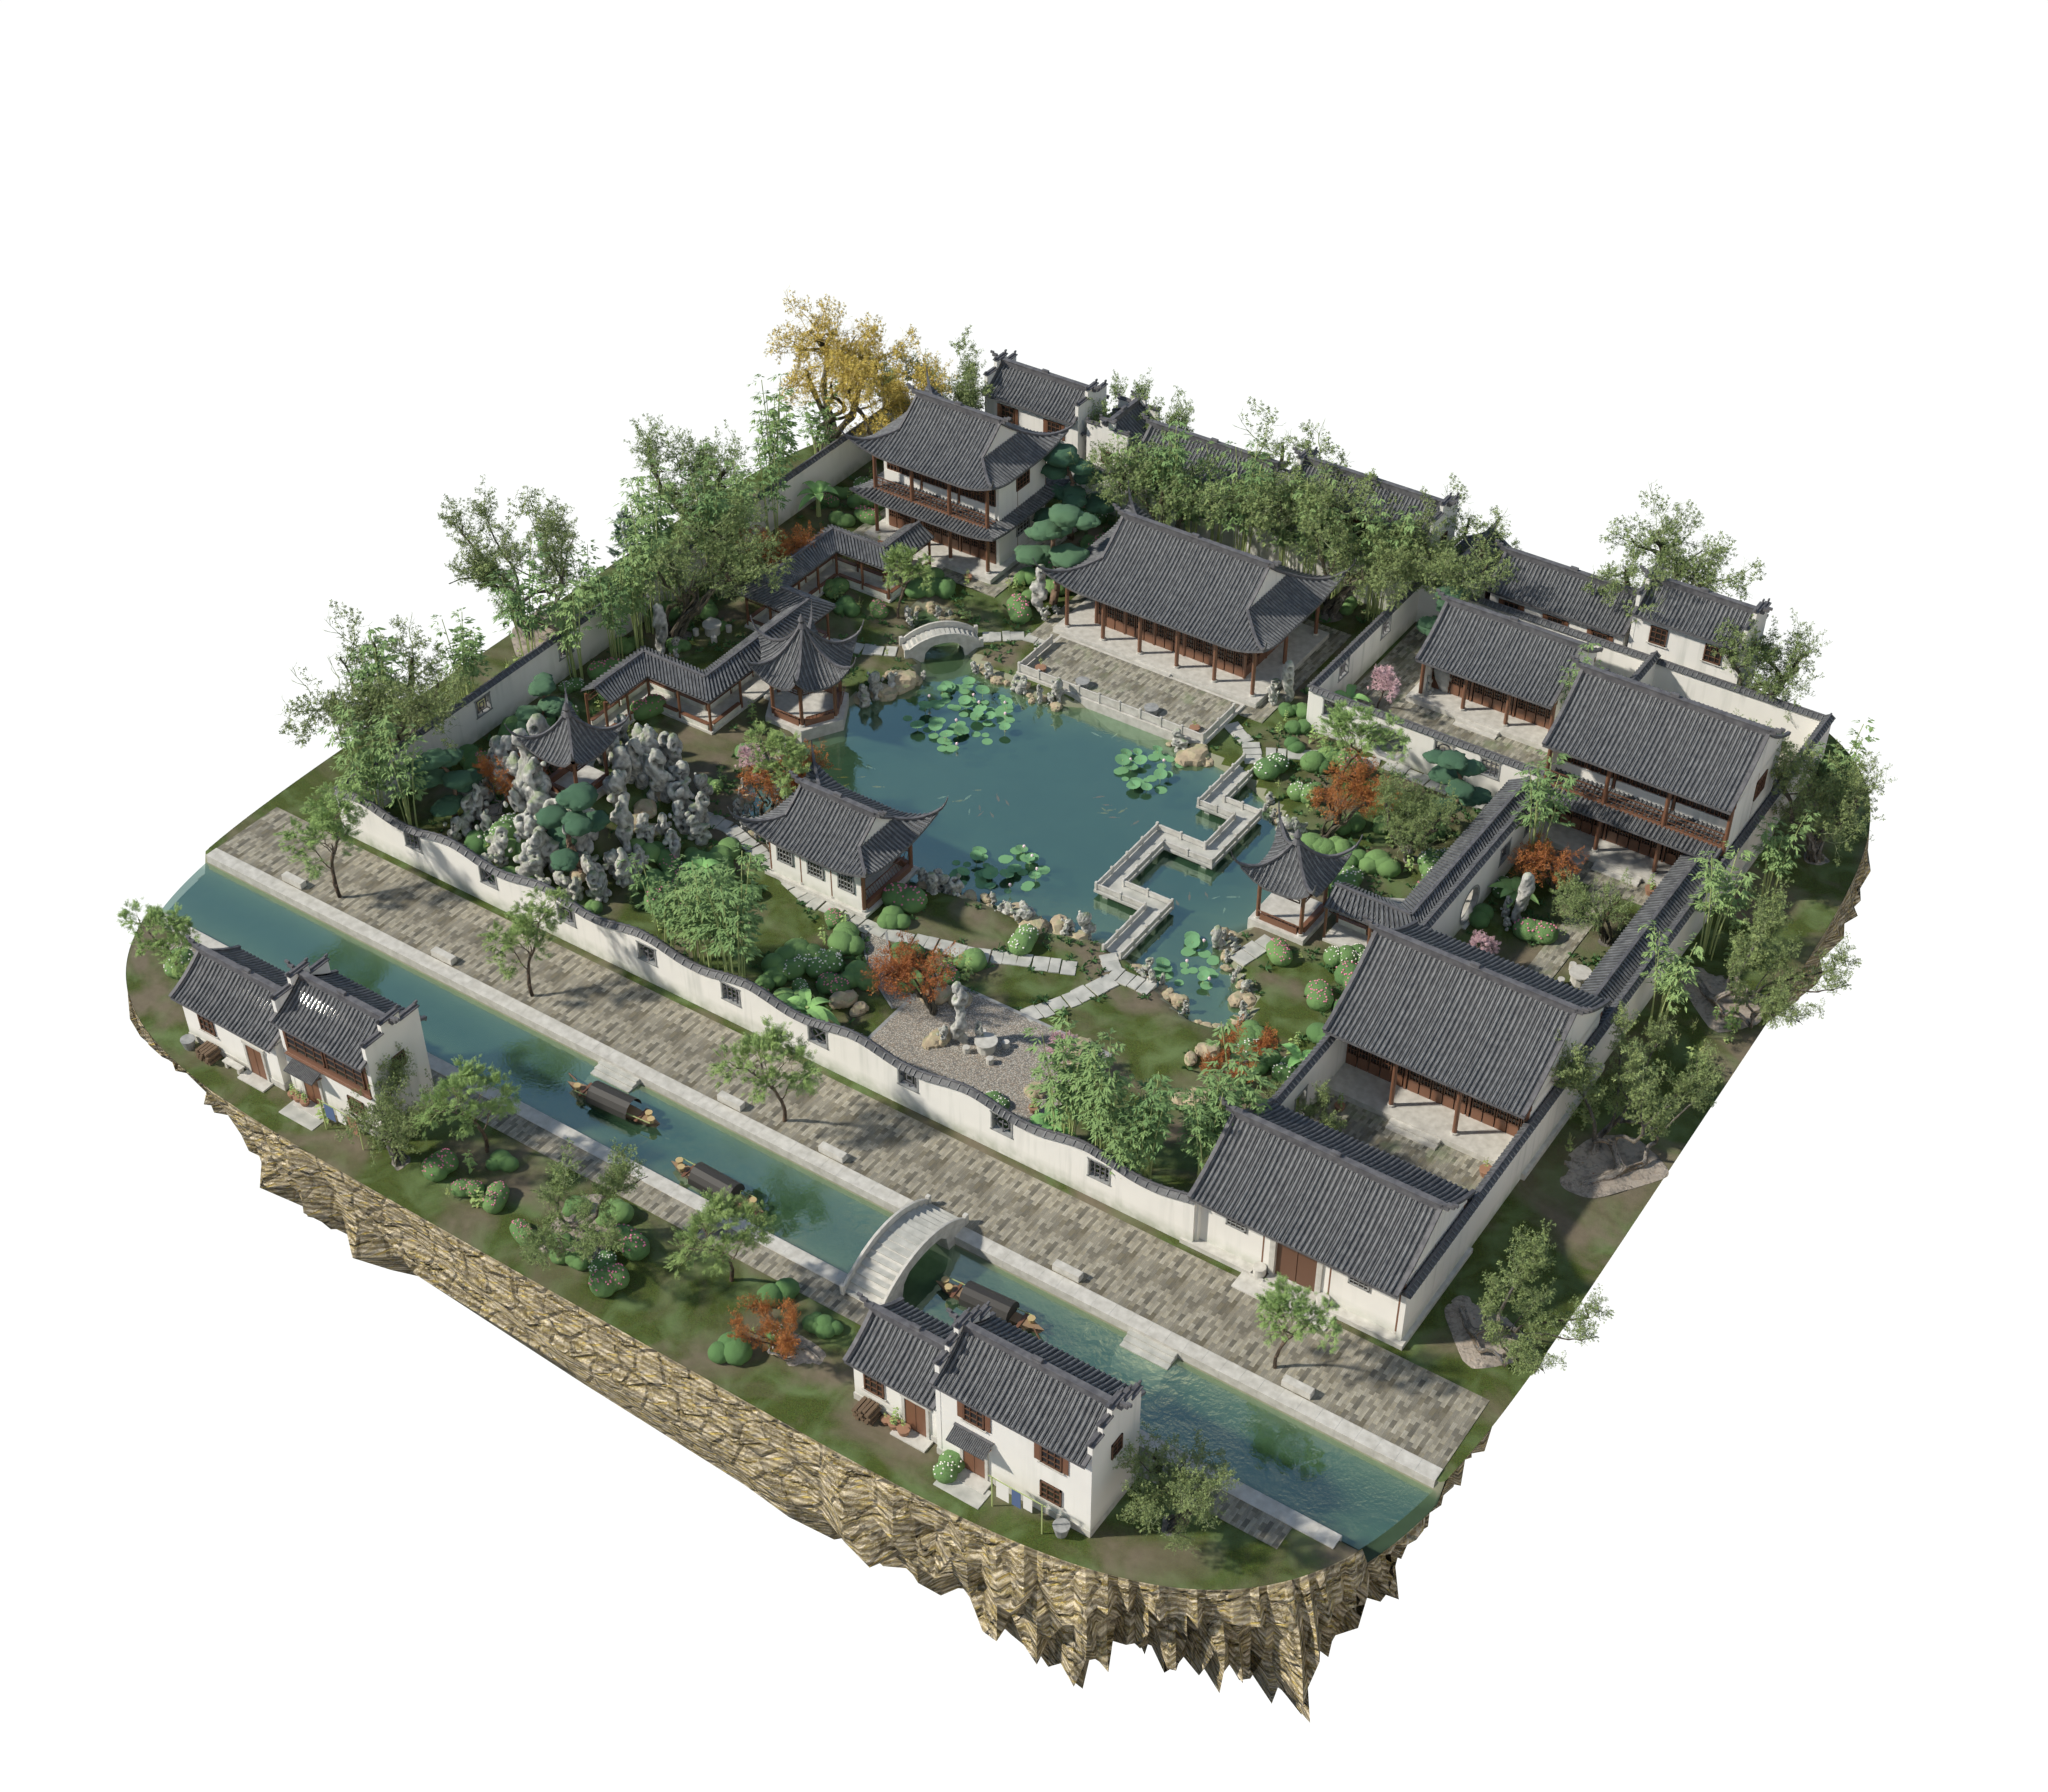
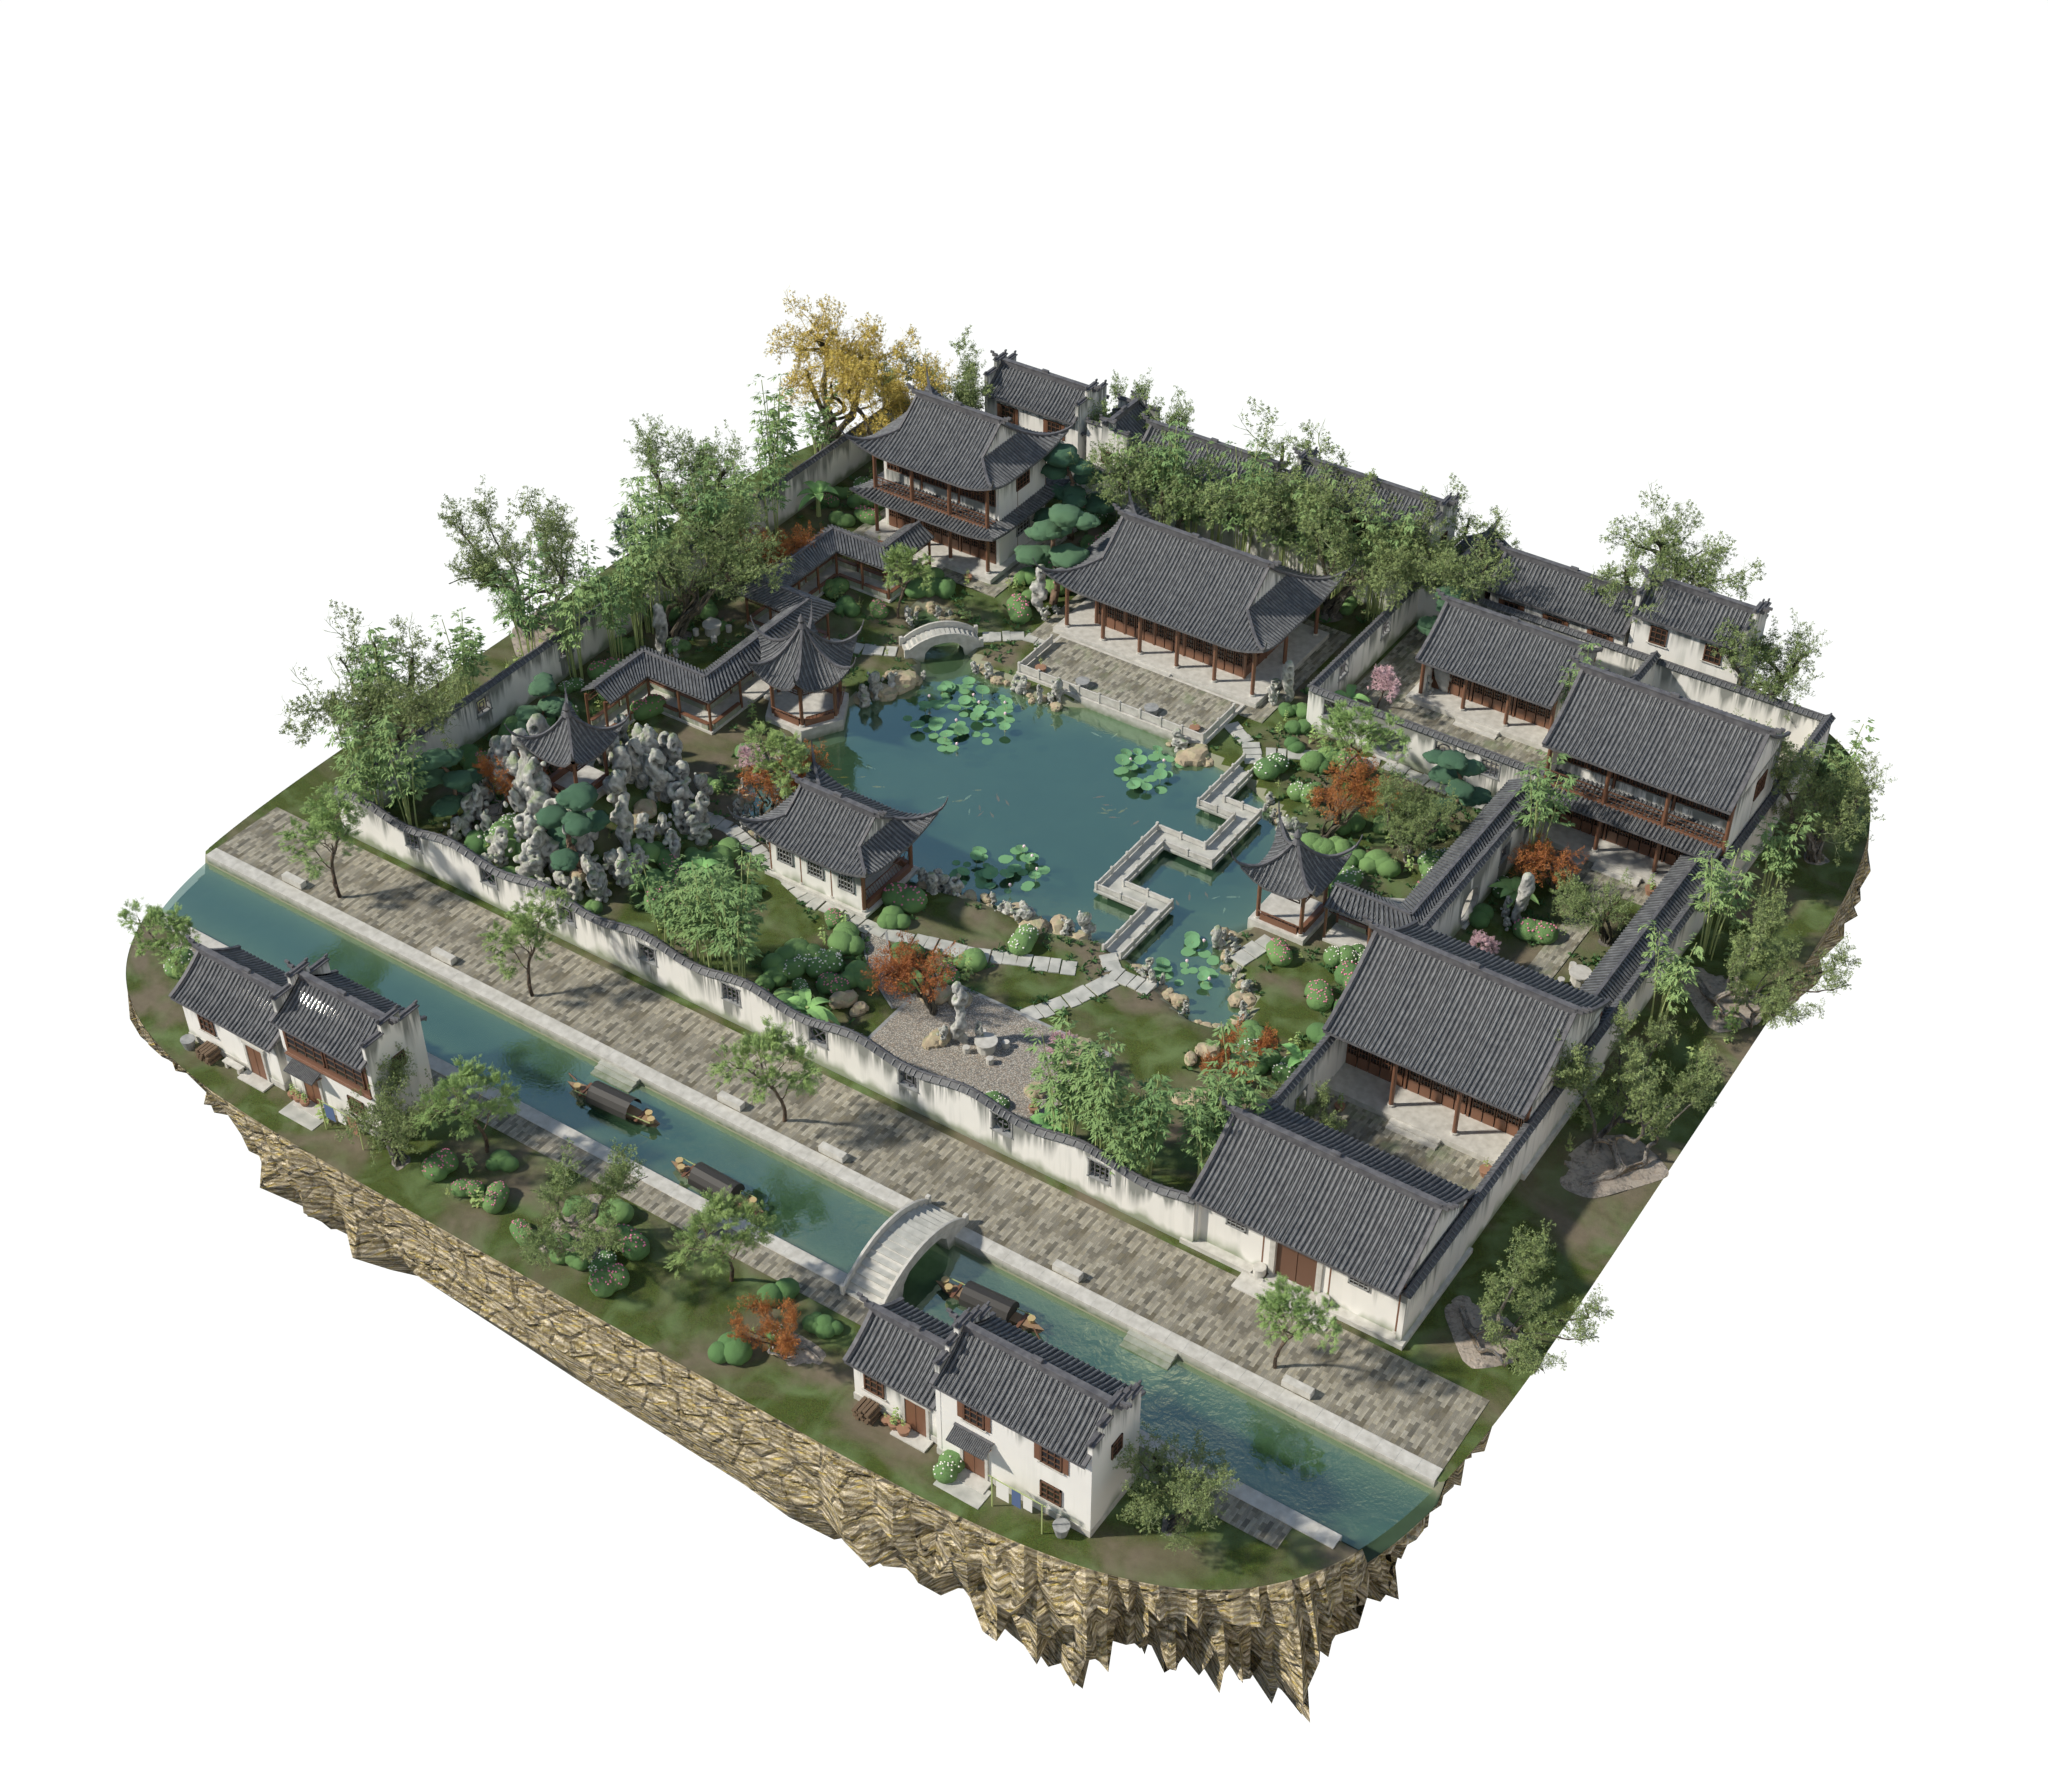
苏州园林第六版：粉墙做旧（雨痕、墙脚返潮），近水石材生青苔
- 网格构建器给每个粉墙顶点写入所在墙段的顶高（属性 topz），材质用 topz − z 得到离墙顶的距离：
  雨痕从瓦帽、屋檐、窗台下往下挂，每一道的长短由只随水平位置变化的噪波决定
- 墙脚一道高低不齐的青灰返潮带，贴地一线溅泥发暗
- 原来材质里就有一层雨痕和返潮，但太淡，在受光的白墙上看不出来；强度改由 --rain / --damp 控制
- 驳岸、河埠头、池岸的石材（金山石、石板）在水线以上一掌高的范围发暗生青苔
- 成图 2048×1792 / 64 采样重渲；黑块扫描新增的 5 处命中逐个与第五版对比，都是背光处的雨痕，不是黑块
- 这一层只在成图里，网页版的墙面仍是纯色

diff --git a/suzhou-garden/build_suzhou_garden.py b/suzhou-garden/build_suzhou_garden.py
@@ -268,17 +268,51 @@ _sep = nt.nodes.new("ShaderNodeSeparateXYZ")
 nt.links.new(texcoord(nt).outputs["Object"], _sep.inputs["Vector"])
 _n0 = noise(nt, 0.7, 3.0)
 _col = mul_color(nt, rgb(nt, (0.86, 0.85, 0.81)), map_range(nt, _n0.outputs["Fac"], 0.93, 1.04))
+def _mth(nt, op, a, b=None, clamp=False):
+    """数学节点：a、b 可以是插口或常数。"""
+    m = nt.nodes.new("ShaderNodeMath"); m.operation = op; m.use_clamp = clamp
+    for i, v in enumerate((a, b)):
+        if v is None:
+            continue
+        if isinstance(v, (int, float)):
+            m.inputs[i].default_value = v
+        else:
+            nt.links.new(v, m.inputs[i])
+    return m.outputs[0]
+
 _st = noise_mapped(nt, (2.4, 2.4, 0.16), detail=3.0)
 _pt = noise(nt, 0.22, 2.0)
 _sf = nt.nodes.new("ShaderNodeMath"); _sf.operation = 'MULTIPLY'
 nt.links.new(clampv(map_range(nt, _st.outputs["Fac"], 0.0, 1.0, 0.50, 0.72)), _sf.inputs[0])
 nt.links.new(clampv(map_range(nt, _pt.outputs["Fac"], 0.0, 0.75, 0.40, 0.62)), _sf.inputs[1])
 _col = mix_rgb(nt, _col, rgb(nt, (0.60, 0.61, 0.57)), _sf.outputs[0], 'MIX')
+# 雨痕：从墙顶（瓦帽、屋檐、窗台下）往下挂。每个墙面顶点带着所在墙段的顶高 topz（MeshB.add 自动写入），
+# 离顶距离 = topz − z；每一道的长短由只随水平位置变化的噪波决定，所以长短不齐
+_tz = nt.nodes.new("ShaderNodeAttribute"); _tz.attribute_name = "topz"
+_dist = _mth(nt, 'SUBTRACT', _tz.outputs["Fac"], _sep.outputs["Z"])
+_valid = _mth(nt, 'GREATER_THAN', _dist, -0.02)
+_ln = noise_mapped(nt, (0.9, 0.9, 0.0), detail=2.0)
+_len = clampv(map_range(nt, _ln.outputs["Fac"], 0.4, 2.6, 0.36, 0.68))
+_fall = clampv(map_range(nt, _dist, 1.0, 0.0, 0.0, 1.0))
+nt.links.new(_len, _fall.node.inputs["From Max"])
+_s1 = clampv(map_range(nt, _st.outputs["Fac"], 0.0, 1.0, 0.40, 0.60))
+_st2 = noise_mapped(nt, (7.0, 7.0, 0.30), detail=2.0)
+_s2 = clampv(map_range(nt, _st2.outputs["Fac"], 0.0, 0.7, 0.48, 0.60))
+_streak = _mth(nt, 'MULTIPLY', _mth(nt, 'MAXIMUM', _s1, _s2), _mth(nt, 'POWER', _fall, 1.3))
+_band = _mth(nt, 'MULTIPLY', clampv(map_range(nt, _dist, 1.0, 0.0, 0.03, 0.26)),
+             clampv(map_range(nt, _pt.outputs["Fac"], 0.25, 0.7, 0.35, 0.65)))       # 瓦帽下一道断续的灰边
+_rain = _mth(nt, 'MULTIPLY', _mth(nt, 'MAXIMUM', _streak, _band), _valid)
+_col = mix_rgb(nt, _col, rgb(nt, (0.27, 0.28, 0.26)), _mth(nt, 'MULTIPLY', _rain, float(arg("--rain", 2.2))), 'MIX')
+# 墙脚返潮：一道高低不齐的青灰带，贴地一线溅泥发黑
+_zr = _mth(nt, 'SUBTRACT', _sep.outputs["Z"], GZ)
+_hn = noise_mapped(nt, (0.8, 0.8, 0.0), detail=2.0)
+_hg = clampv(map_range(nt, _hn.outputs["Fac"], 0.30, 1.35, 0.32, 0.70))
+_damp = clampv(map_range(nt, _zr, 1.0, 0.0, 0.0, 1.0))
+nt.links.new(_hg, _damp.node.inputs["From Max"])
 _dn = noise(nt, 1.6, 3.0)
-_df = nt.nodes.new("ShaderNodeMath"); _df.operation = 'MULTIPLY'
-nt.links.new(clampv(map_range(nt, _sep.outputs["Z"], 1.0, 0.0, GZ + 0.05, GZ + 1.0)), _df.inputs[0])
-nt.links.new(clampv(map_range(nt, _dn.outputs["Fac"], 0.25, 1.0, 0.30, 0.65)), _df.inputs[1])
-_col = mix_rgb(nt, _col, rgb(nt, (0.44, 0.47, 0.38)), _df.outputs[0], 'MIX')
+_df = _mth(nt, 'MULTIPLY', _mth(nt, 'POWER', _damp, 1.4), clampv(map_range(nt, _dn.outputs["Fac"], 0.55, 1.0, 0.25, 0.55)))
+_col = mix_rgb(nt, _col, rgb(nt, (0.33, 0.37, 0.27)), _mth(nt, 'MULTIPLY', _df, float(arg("--damp", 1.8))), 'MIX')
+_col = mix_rgb(nt, _col, rgb(nt, (0.21, 0.22, 0.19)), _mth(nt, 'MULTIPLY', clampv(map_range(nt, _zr, 1.0, 0.0, 0.0, 0.2)), 0.5), 'MIX')
 nt.links.new(_col, _p.inputs["Base Color"])
 _wb = bump_node(nt, _n0.outputs["Fac"], 0.25, 0.02)
 nt.links.new(_wb.outputs["Normal"], _p.inputs["Normal"])
@@ -291,6 +325,19 @@ SLAB = noise_mix(principled("ShiBan", (0.48, 0.48, 0.45), rough=0.9, bevel=0.03)
 GREYBRICK = noise_mix(principled("QingZhuan", (0.30, 0.31, 0.31), rough=0.85, bevel=0.02), (0.24, 0.25, 0.25), (0.37, 0.38, 0.38), 4.0, bump=0.2)
 POT = principled("TaoPen", (0.34, 0.19, 0.12), rough=0.7)
 # 方砖铺地
+def damp_stone(mat):
+    """近水的石材（驳岸、河埠头、池岸）：水线以上一掌高的地方发暗、生青苔。只影响地面以下的部分。"""
+    nt_ = mat.node_tree
+    p_ = nt_.nodes["Principled BSDF"]
+    src = p_.inputs["Base Color"].links[0].from_socket
+    sep_ = nt_.nodes.new("ShaderNodeSeparateXYZ")
+    nt_.links.new(texcoord(nt_).outputs["Object"], sep_.inputs["Vector"])
+    n_ = noise(nt_, 2.2, 3.0)
+    f_ = nt_.nodes.new("ShaderNodeMath"); f_.operation = 'MULTIPLY'
+    nt_.links.new(clampv(map_range(nt_, sep_.outputs["Z"], 1.0, 0.0, 0.04, 0.42)), f_.inputs[0])
+    nt_.links.new(clampv(map_range(nt_, n_.outputs["Fac"], 0.45, 1.0, 0.30, 0.65)), f_.inputs[1])
+    nt_.links.new(mix_rgb(nt_, src, rgb(nt_, (0.17, 0.22, 0.13)), f_.outputs[0], 'MIX'), p_.inputs["Base Color"])
+damp_stone(GRANITE); damp_stone(SLAB)
 PAVE = principled("FangZhuan", (0.50, 0.50, 0.48), rough=0.9, bevel=0)
 nt = PAVE.node_tree
 _c = tex_node(nt, "PavingStones128", "Color", 0.42, 'Object', noncolor=False)
@@ -497,6 +544,7 @@ class MeshB:
     def __init__(self, name):
         self.name, self.v, self.f, self.m, self.mats = name, [], [], [], []
         self.uv = []
+        self.top = []      # 每个顶点所在墙段的顶高（只有粉墙写入，其余为 −1000），供粉墙材质算雨痕
     def mi(self, mat):
         if mat not in self.mats:
             self.mats.append(mat)
@@ -504,6 +552,14 @@ class MeshB:
     def add(self, verts, faces, mat, uvs=None):
         off = len(self.v)
         self.v.extend(verts)
+        if mat is WHITE_WALL:
+            colz = {}
+            for p in verts:
+                k = (round(p[0], 3), round(p[1], 3))
+                colz[k] = max(colz.get(k, -1e9), p[2])
+            self.top.extend(colz[(round(p[0], 3), round(p[1], 3))] for p in verts)
+        else:
+            self.top.extend([-1000.0] * len(verts))
         self.f.extend(tuple(i + off for i in f) for f in faces)
         self.m.extend([self.mi(mat)] * len(faces))
         self.uv.extend(uvs if uvs is not None else [None] * len(faces))
@@ -527,6 +583,8 @@ class MeshB:
                 else:
                     for k, li in enumerate(poly.loop_indices):
                         data[li].uv = fuv[k]
+        if any(t > -999.0 for t in self.top):
+            me.attributes.new("topz", 'FLOAT', 'POINT').data.foreach_set("value", self.top)
         me.update()
         ob = bpy.data.objects.new(self.name, me)
         ob.location = loc

diff --git a/suzhou-garden/README.md b/suzhou-garden/README.md
@@ -26,6 +26,10 @@ npm run blender:suzhou:web        # 导出网页版 → public/dioramas/suzhou-g
   临河民居是近景：有的山墙做成马头墙，有的楼层是木板壁通排花窗；朝镜头的一面开门、加瓦顶门罩，
   窗有石窗台和木窗板，屋前放水缸、柴垛、石凳、盆栽和晾衣竿。
   北面墙外的邻家是正屋夹厢房：正屋顺着园墙，两座厢房垂直于园墙、山墙朝南，高低进深各不相同。
+- 粉墙做旧：雨痕从瓦帽、屋檐、窗台下往下挂，长短不齐；墙脚一道高低不齐的青灰返潮带。
+  做法是让网格构建器给每个粉墙顶点写入所在墙段的顶高（属性 `topz`），材质用 `topz − z` 得到离墙顶的距离。
+  强度用 `--rain`（默认 2.2）和 `--damp`（默认 1.8）调。驳岸、河埠头、池岸的石材在水线以上发暗生青苔。
+  这一层只在成图里，网页版的墙面仍是纯色。
 - 相机在东南，所以有门窗细节的立面都朝南或朝东；高的建筑放在北面和西面。
 
 ## 做法
